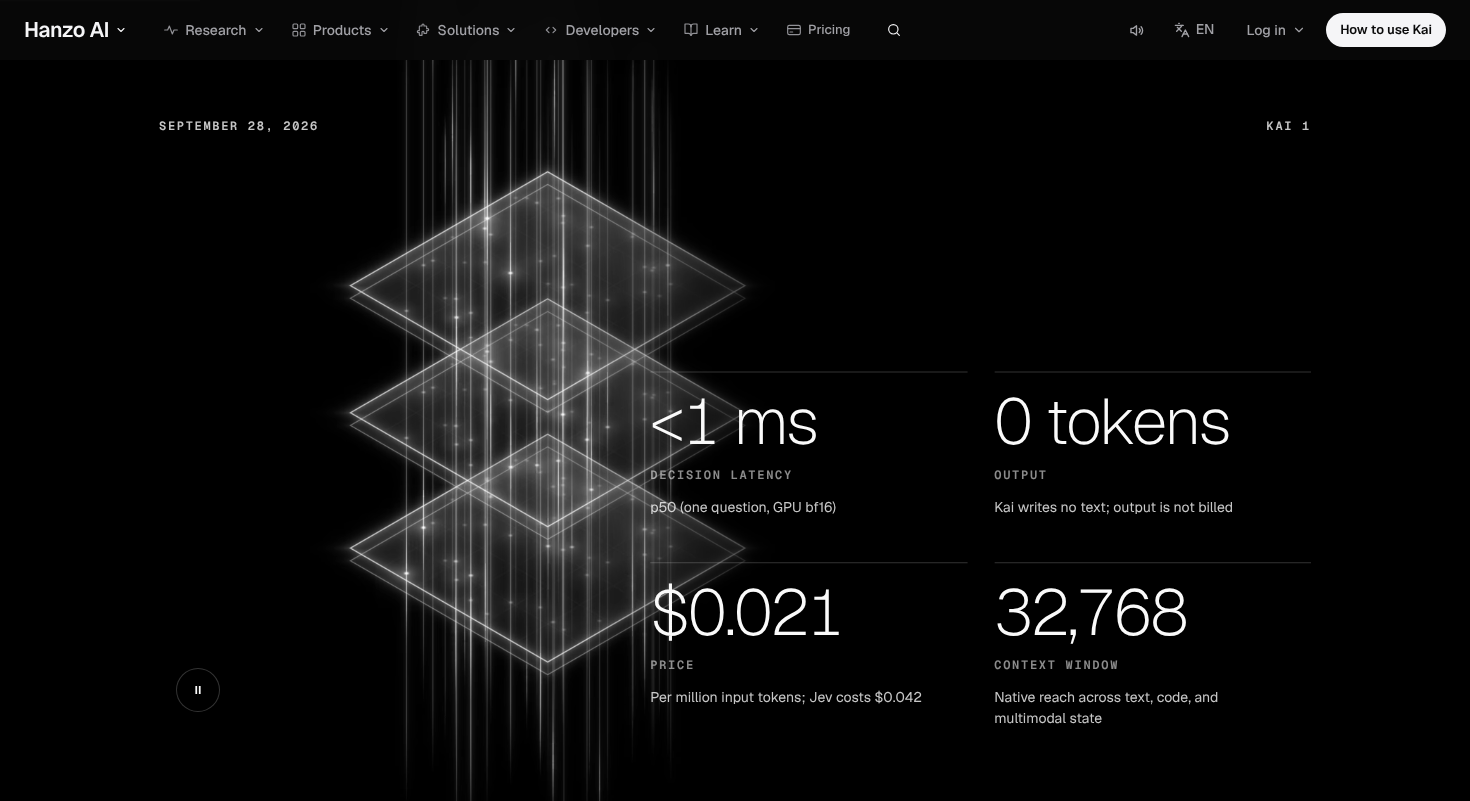
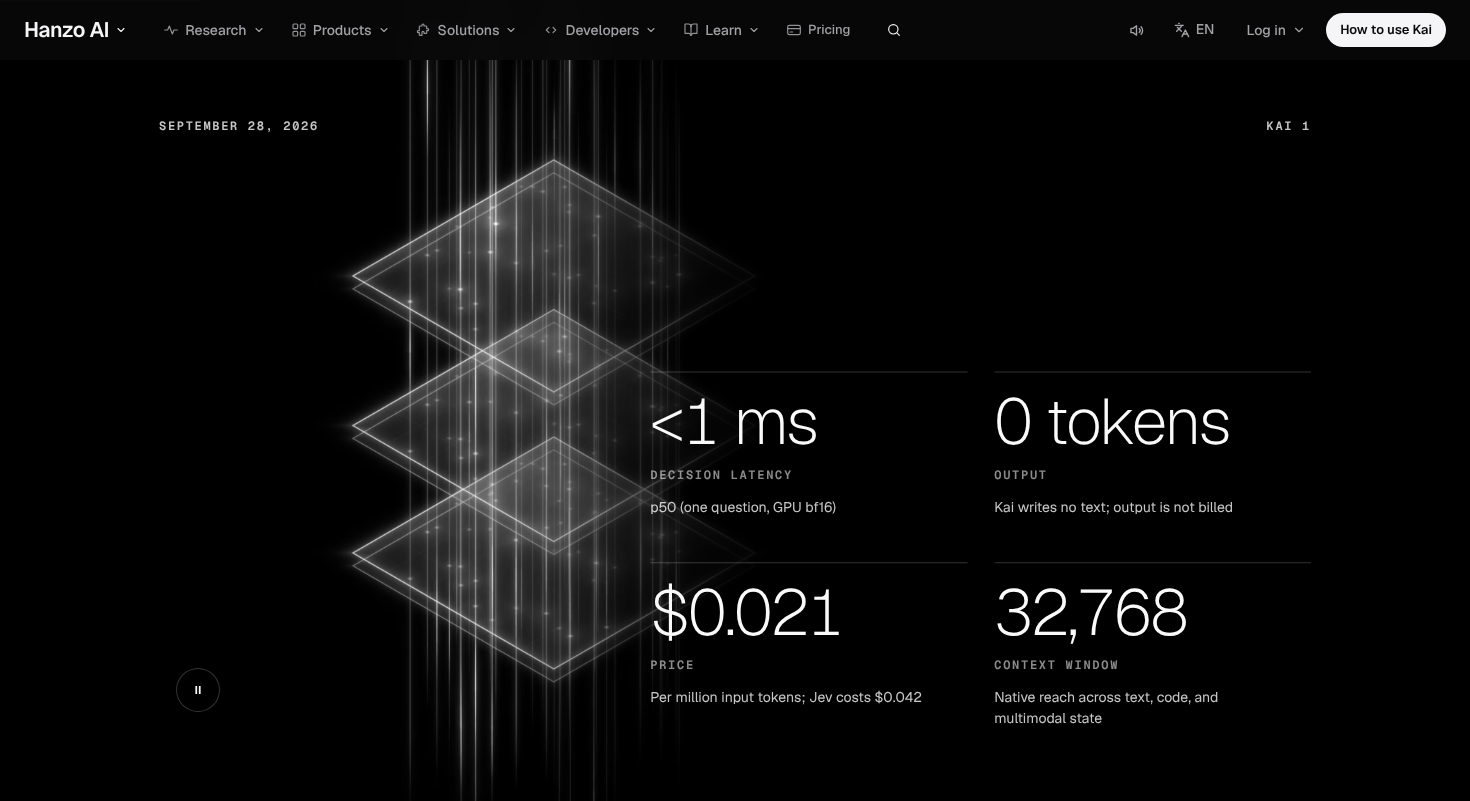
fix(blog-family): Life cells fit their tracks, page-local band with line-mask cut-in, gradient under Kai's figures, Life gists for synthesis 02/03, reduced-motion hero art, sources caption, card hover peek
Claude-Session: https://claude.ai/code/session_01T1hoMuz3Pa3LFEtY3bJiXi

Changed region(s): [[0.2143, 0.0624, 0.5204, 0.9988], [0.4898, 0.4994, 0.5204, 0.5306], [0.4898, 0.3433, 0.5204, 0.3745]]

diff --git a/components/pages/post/Post.jsx b/components/pages/post/Post.jsx
@@ -9,7 +9,7 @@
    Signature: the reading thread. A margin rail holds the chapter you are in as a numeral that hands over to the next,
    and a spine that fills as you read, each chapter a knot (on a phone, a reading bar that opens the contents).
    Beyond: minutes left. The post's own stated read time counts down as you read, and any chapter is one press away.
-   V2: 8/10 round 3: one ask everywhere (header outlined from first paint while the post's own ask shows; on phones the ask rides in the chapter bar and the shared rising bar never floats over text); "Back to Blog / <chip>" breadcrumb under the h1; each post's data sets its rhythm (a figures post mirrors the scene, counts its figures with the scroll and keeps its rail on the right); synthesis parts lead with one large film and list the rest. Round 2: CSS title cut-in, poster drift, chapter gists, counter on every scroll */
+   V2: 8/10 round 4: Life cells sized to their tracks (a real grid); closing band drawn page-locally with a line-mask cut-in (no blur); gradient under Kai's figures; synthesis chapters 02/03 get the board's own collision and the glider emblem; reduced motion shows the hero art beside the title; Frontier sources on one caption line; next-post hover raises the tag and read time. Round 3: one ask everywhere (header outlined from first paint while the post's own ask shows; on phones the ask rides in the chapter bar and the shared rising bar never floats over text); "Back to Blog / <chip>" breadcrumb under the h1; each post's data sets its rhythm (a figures post mirrors the scene, counts its figures with the scroll and keeps its rail on the right); synthesis parts lead with one large film and list the rest. Round 2: CSS title cut-in, poster drift, chapter gists, counter on every scroll */
 // Persona: a developer or founder reading Hanzo's thinking (arrives from /blog, search or a shared link)
 // Goal: finish the post, understand its one idea, take the post's own next step
 // CTA: the post's first closing link as the one solid ask (hero, data-thumb, data-cta "blog-post.hero"), repeated in the closing Band
@@ -18,8 +18,8 @@
 // Beyond: minutes left: the post's own read time counting down as you read, with a jump to any chapter
 import { Fragment, useEffect, useRef, useState } from 'react';
 import { motion, AnimatePresence, useMotionValueEvent, useScroll, useTransform } from 'motion/react';
-import { EASE } from '../../ui';
-import { A, Band, Cta, CodeBlock, Film as KitFilm, Img, Tabs, TabPanel } from '../../kit';
+import { EASE, Magnetic } from '../../ui';
+import { A, Cta, CodeBlock, Film as KitFilm, Img, Tabs, TabPanel } from '../../kit';
 import Sigil from '../../Sigil';
 import Gist, { gist } from './Gist';
 import Life from './Life';
@@ -234,6 +234,7 @@ function Stage({ doc, nums, ask, alt }) {
               {ask && <div className="xbg-ask"><Cta to={ask.href} id="blog-post.hero" thumb>{ask.label}</Cta></div>}
             </div>
             <i className="xbg-slot" ref={slot} aria-hidden="true" />
+            <span className="xbg-rest" aria-hidden="true">{doc.film ? <Img src={film(doc.film, 'webp')} alt="" w={1200} h={1500} /> : <Sigil seed={doc.route} data={nums} className="xbg-sigil" />}</span>
           </div>
         </motion.div>
       </div>
@@ -317,7 +318,46 @@ function Thread({ doc, chapters, body, ask }) {
 
 const Chevron = () => <svg viewBox="0 0 16 16" width="14" height="14" aria-hidden="true"><path d="M3 8h9M8.5 4.5 12 8l-3.5 3.5" fill="none" stroke="currentColor" strokeWidth="1.6" strokeLinecap="round" strokeLinejoin="round" /></svg>;
 
-/* the close: the sources, the other posts as cards that open into their page, then the Band with the post's own ask */
+/* The closing band, page-local: the kit Band reveals its headline word by word with opacity and blur (against MASTER
+   part 9), so this draws the same .x-band (same look, same words) with the headline cut in by line mask when it
+   arrives, the post's own ask as a kit Cta (magnetic, as the Band's was) and the other closing links beside it.
+   Request to the kit owner: docs/requests/blog-family.md. */
+function Close({ cta }) {
+  const ref = useRef(null);
+  useEffect(() => {
+    const el = ref.current;
+    if (!el) return;
+    const io = new IntersectionObserver(([e]) => { if (e.isIntersecting) { el.dataset.in = 'true'; io.disconnect(); } }, { threshold: 0.35 });
+    io.observe(el);
+    return () => io.disconnect();
+  }, []);
+  const words = cta.label.split(' ');
+  return (
+    <section className="x-band xbg-band" data-room="dark" ref={ref}>
+      <div className="x-wrap">
+        <h2 className="xbg-band-h">
+          <span className="x-sr">{cta.label}</span>
+          {words.map((w, i) => (
+            <Fragment key={i}>
+              <span className="xbg-bm" aria-hidden="true"><span className="xbg-bi" style={{ '--i': i }}>{w}</span></span>
+              {i < words.length - 1 ? ' ' : ''}
+            </Fragment>
+          ))}
+        </h2>
+        <div className="x-band-act">
+          <Magnetic><Cta to={cta.links[0].href} id="blog-post.close-1" size="lg">{cta.links[0].label}</Cta></Magnetic>
+          {cta.links.length > 1 && (
+            <span className="xbg-band-more">
+              {cta.links.slice(1).map((l, i) => <A key={l.href} to={l.href} className="x-arrow" data-cta={'blog-post.close-' + (i + 2)}><span>{l.label}</span><Chevron /></A>)}
+            </span>
+          )}
+        </div>
+      </div>
+    </section>
+  );
+}
+
+/* the close: the sources, the other posts as cards that open into their page, then the band with the post's own ask */
 function End({ doc, cta, sources }) {
   return (
     <>
@@ -334,7 +374,10 @@ function End({ doc, cta, sources }) {
               {doc.next.map((n, i) => (
                 <li key={n.href} className={i === 0 ? 'big' : ''}>
                   <A to={n.href} className="xbg-card" data-cta={'blog-post.next-' + (i + 1)}>
-                    <span className="xbg-card-art">{n.film ? <Img src={film(n.film, 'webp')} alt="" w={1200} h={1500} /> : <Sigil seed={n.href} data={[parseInt(n.read, 10) || 0, n.title.length]} className="xbg-sigil" />}</span>
+                    <span className="xbg-card-art">
+                      {n.film ? <Img src={film(n.film, 'webp')} alt="" w={1200} h={1500} /> : <Sigil seed={n.href} data={[parseInt(n.read, 10) || 0, n.title.length]} className="xbg-sigil" />}
+                      <span className="xbg-card-peek x-mono" aria-hidden="true"><span>{n.chip}</span><span>{n.read}</span></span>
+                    </span>
                     <span className="xbg-card-t" data-morph>{n.title}</span>
                     <span className="xbg-card-k x-mono"><span>{n.chip}</span><span>{n.date}</span><span className="xbg-card-r">{n.read}</span></span>
                   </A>
@@ -344,14 +387,7 @@ function End({ doc, cta, sources }) {
           )}
         </div>
       </section>
-      {cta && (
-        <Band title={cta.label} action={cta.links[0].label} to={cta.links[0].href}
-          note={cta.links.length > 1 ? (
-            <span className="xbg-band-more">
-              {cta.links.slice(1).map((l, i) => <A key={l.href} to={l.href} className="x-arrow" data-cta={'blog-post.close-' + (i + 2)}><span>{l.label}</span><Chevron /></A>)}
-            </span>
-          ) : null} />
-      )}
+      {cta && <Close cta={cta} />}
     </>
   );
 }
@@ -368,6 +404,12 @@ export default function Post({ doc }) {
     else if (chapters.length) chapters[chapters.length - 1].blocks.push({ b, i });
   });
   chapters.forEach((c) => { c.gist = gist(c.blocks); });
+  // a post that holds the Game of Life gives its other text-only chapters the board's own moves: the collision, then
+  // the glider alone as the emblem (after the chapter's first paragraph)
+  if (doc.body.some((b) => b.k === 'figure' && b.kind === 'life')) {
+    const kinds = ['collide', 'emblem'];
+    chapters.forEach((c) => { if (!c.gist && c.blocks.length && c.blocks.every(({ b }) => b.k === 'p') && kinds.length) c.gist = { kind: kinds.shift(), after: 0 }; });
+  }
   const nums = [doc.minutes, doc.title.length];
   const ask = cta && cta.links[0];
   // each post's own data sets its rhythm: a post whose plate holds figures (Kai) mirrors the scene (film card on the

diff --git a/components/pages/post/Post.css b/components/pages/post/Post.css
@@ -81,6 +81,8 @@ html:has(main.xbg):not([data-xbg-solid]) header[data-slot=masthead] a[data-x-ask
   .js .alt .xbg-plate-film { right: auto; left: 0; object-position: 40% 45%; -webkit-mask-image: linear-gradient(270deg, transparent 0, #000 30%); mask-image: linear-gradient(270deg, transparent 0, #000 30%); }
   .js .alt .xbg-plate-f { align-self: flex-end; transform-origin: 100% 100%; }
   .js .alt .xbg-plate-k { flex-direction: row-reverse; }
+  /* the figures settle on the film's right: a gradient under that column only (dimming as a gradient under text) */
+  .js .alt .xbg-stage.film .xbg-plate-c::before { content: ''; position: absolute; z-index: -1; top: 0; bottom: 0; left: calc(50% - 50vw); right: calc(50% - 50vw); background: linear-gradient(90deg, rgba(0, 0, 0, 0) 34%, rgba(0, 0, 0, .8) 50%, rgba(0, 0, 0, .9) 100%); pointer-events: none; }
 }
 /* a figures post keeps its reading rail on the right of the column */
 @media (min-width: 1200px) {
@@ -163,6 +165,14 @@ html:not(.js) .xbg-gist-track i { transform: none; }
 .xbg-gist.steps li .xbg-gist-dot { animation: xbg-dot calc(var(--n) * 1.6s) linear infinite; animation-delay: inherit; animation-play-state: inherit; }
 @keyframes xbg-dot { 0%, 30% { background: var(--ink2); transform: scale(1.15); } 36%, 100% { background: var(--room-bg); transform: scale(1); } }
 
+/* the Life gists: the collision on a small board, the glider alone as the emblem */
+.xbg-gist.life { display: flex; }
+.xbg-gist-board { display: grid; gap: 2px; padding: 10.5px; border-radius: 20px; background: var(--room-surface); width: 100%; max-width: 520px; }
+.xbg-gist.emblem .xbg-gist-board { max-width: 188px; gap: 6.5px; padding: 17px; border-radius: 16px; }
+.xbg-gist-board i { aspect-ratio: 1; border-radius: 2px; background: var(--hz-100); transition: background-color 180ms cubic-bezier(0, 0, .2, 1), transform 180ms cubic-bezier(.4, 0, .2, 1); }
+.xbg-gist.emblem .xbg-gist-board i { border-radius: 50%; }
+.xbg-gist-board i[data-on='1'] { background: var(--ink2); transform: scale(.92); }
+
 /* code: kit CodeBlock (and kit Tabs above it) */
 .xbg-code { margin: 44px 0; display: flex; flex-direction: column; gap: 10.5px; align-items: flex-start; }
 .xbg-code > *, .xbg-code [role='tabpanel'] { width: 100%; }
@@ -171,7 +181,7 @@ html:not(.js) .xbg-gist-track i { transform: none; }
 /* Game of Life */
 .xbg-life { margin: 0; display: grid; grid-template-columns: minmax(0, 360px) minmax(0, 1fr); gap: 17px 44px; align-items: start; }
 .xbg-board { display: grid; gap: 2px; padding: 10.5px; border-radius: 24px; background: var(--room-surface); touch-action: none; }
-.xbg-board button { aspect-ratio: 1; padding: 0; border: 0; border-radius: 3px; background: var(--hz-100); cursor: crosshair; transition: background-color 150ms cubic-bezier(0, 0, .2, 1), transform 150ms cubic-bezier(.4, 0, .2, 1); }
+.xbg-board button { aspect-ratio: 1; width: 100%; min-width: 0; min-height: 0; height: auto; padding: 0; border: 0; border-radius: 3px; background: var(--hz-100); cursor: crosshair; transition: background-color 150ms cubic-bezier(0, 0, .2, 1), transform 150ms cubic-bezier(.4, 0, .2, 1); }
 @media (hover: hover) { .xbg-board button:hover { background: var(--hz-200); } }
 .xbg-board button[data-on='1'] { background: var(--ink2); transform: scale(.94); }
 .xbg-board button:focus-visible { outline: 2px solid var(--ink2); outline-offset: 1px; position: relative; z-index: 1; }
@@ -227,10 +237,39 @@ html:not(.js) .xbg-gist-track i { transform: none; }
 .xbg-card-art img { position: absolute; inset: 0; width: 100%; height: 100%; object-fit: cover; object-position: 75% 45%; transition: transform 500ms cubic-bezier(.4, 0, .2, 1); }
 .xbg-card-art .xbg-sigil { position: absolute; inset: 0; width: 100%; height: 100%; transition: transform 500ms cubic-bezier(.4, 0, .2, 1); }
 @media (hover: hover) { .xbg-card:hover .xbg-card-art img, .xbg-card:hover .xbg-card-art .xbg-sigil { transform: scale(1.04); } }
+/* hover tells something: the post's tag and read time rise into the picture's foot */
+.xbg-card-peek { position: absolute; left: 17px; bottom: 17px; z-index: 1; display: flex; gap: 10.5px; padding: 6.5px 10.5px; border-radius: 6px; background: rgba(0, 0, 0, .72); color: #fafafa; font-size: 12px; font-weight: 606; letter-spacing: .14em; text-transform: uppercase; transform: translateY(calc(100% + 17px)); transition: transform 300ms cubic-bezier(.16, 1, .3, 1); }
+@media (hover: hover) { .xbg-card:hover .xbg-card-peek, .xbg-card:focus-visible .xbg-card-peek { transform: none; } }
+
+/* the closing band: Hanzo's words cut in by line mask when they arrive (no blur), then the ask */
+.xbg-band-h { text-wrap: balance; }
+.xbg-band-h .xbg-bm { display: inline-block; overflow: hidden; padding: .04em 0 .12em; margin: -.04em 0 -.12em; vertical-align: top; }
+.xbg-band-h .xbg-bi { display: inline-block; }
+.js .xbg-band:not([data-in='true']) .xbg-bi { transform: translateY(105%); }
+.js .xbg-band[data-in='true'] .xbg-bi { animation: xbg-rise 800ms cubic-bezier(.16, 1, .3, 1) both; animation-delay: calc(var(--i, 0) * 55ms); }
+.xbg-band .x-band-act { transition: transform 600ms cubic-bezier(.16, 1, .3, 1) 300ms; }
+.js .xbg-band:not([data-in='true']) .x-band-act { transform: translateY(17px); }
+@media (prefers-reduced-motion: reduce) { .js .xbg-band .xbg-bi, .js .xbg-band .x-band-act { transform: none !important; animation: none !important; } }
+
+/* the Frontier's sources: one caption line under the chart, out of the chip row */
+.xbg-srcs { margin: 17px 0 0; font-size: 13px; line-height: 1.6; color: var(--mute); }
+.xbg-srcs > span + span::before { content: ' · '; }
+
+/* the hero art at rest beside the title when the scene does not pin (reduced motion, no JavaScript) */
+.xbg-rest { display: none; }
+@media (min-width: 900px) and (prefers-reduced-motion: reduce) {
+  .xbg-cover-g { display: grid; grid-template-columns: minmax(0, 5fr) minmax(0, 8fr); column-gap: 27px; align-items: center; }
+  .alt .xbg-cover-t { order: 2; }
+  .xbg-rest { display: block; position: relative; aspect-ratio: 4 / 3; border-radius: 24px; overflow: hidden; background: #000; color: rgba(255, 255, 255, .6); }
+}
+@media (min-width: 900px) {
+  html:not(.js) .xbg-cover-g { display: grid; grid-template-columns: minmax(0, 5fr) minmax(0, 8fr); column-gap: 27px; align-items: center; }
+  html:not(.js) .xbg-rest { display: block; position: relative; aspect-ratio: 4 / 3; border-radius: 24px; overflow: hidden; background: #000; color: rgba(255, 255, 255, .6); }
+}
+.xbg-rest img, .xbg-rest .xbg-sigil { position: absolute; inset: 0; width: 100%; height: 100%; object-fit: cover; }
 .xbg-card-t { font-size: 21px; font-weight: 497; line-height: 1.25; letter-spacing: -.01em; max-width: 26ch; text-wrap: balance; }
 .xbg-card-k { display: flex; flex-wrap: wrap; gap: 6.5px 17px; color: var(--mute); }
 .xbg-card-r { color: var(--ink2); }
-.xbg .x-band h2 { text-wrap: balance; }
 .xbg-band-more { display: flex; flex-wrap: wrap; justify-content: center; gap: 10.5px 27px; }
 .xbg-band-more .x-arrow { color: #fafafa; }
 

diff --git a/components/pages/post/Gist.jsx b/components/pages/post/Gist.jsx
@@ -54,7 +54,86 @@ export function gist(blocks) {
   return null;
 }
 
+/* Life objects for a post that already holds the Game of Life (its own board and rules, no new words):
+   'collide' runs two gliders into each other on a small board with dead edges, so the debris settles, then starts again;
+   'emblem' is the glider alone in its 3×3 box (the hacker emblem), turning through its four phases. */
+const GL = [[1, 0], [2, 1], [0, 2], [1, 2], [2, 2]];
+function sim(w, h, wrap) {
+  return (g) => {
+    const n = new Uint8Array(w * h);
+    for (let y = 0; y < h; y++) for (let x = 0; x < w; x++) {
+      let c = 0;
+      for (let dy = -1; dy <= 1; dy++) for (let dx = -1; dx <= 1; dx++) {
+        if (!dx && !dy) continue;
+        let X = x + dx, Y = y + dy;
+        if (wrap) { X = (X + w) % w; Y = (Y + h) % h; } else if (X < 0 || Y < 0 || X >= w || Y >= h) continue;
+        c += g[Y * w + X];
+      }
+      n[y * w + x] = c === 3 || (c === 2 && g[y * w + x]) ? 1 : 0;
+    }
+    return n;
+  };
+}
+const SHOWS = {
+  collide: () => {
+    const w = 22, h = 14, g = new Uint8Array(w * h);
+    GL.forEach(([x, y]) => { g[(y + 1) * w + x + 1] = 1; g[(y + 1) * w + (w - 2 - x)] = 1; }); // one heading right, its mirror heading left
+    return { w, h, start: g, next: sim(w, h, false), turns: 72, ms: 200 };
+  },
+  emblem: () => {
+    const w = 8, h = 8, g = new Uint8Array(w * h);
+    GL.forEach(([x, y]) => { g[(y + 2) * w + x + 2] = 1; });
+    return { w, h, start: g, next: sim(w, h, true), turns: 0, ms: 700, crop: 3 };
+  },
+};
+// the live cells' 3×3 box, so the emblem stays put while the glider turns
+function crop(g, w, h, k) {
+  let x0 = w, y0 = h;
+  for (let y = 0; y < h; y++) for (let x = 0; x < w; x++) if (g[y * w + x]) { x0 = Math.min(x0, x); y0 = Math.min(y0, y); }
+  const out = new Uint8Array(k * k);
+  for (let y = 0; y < k; y++) for (let x = 0; x < k; x++) out[y * k + x] = g[((y0 + y) % h) * w + ((x0 + x) % w)];
+  return out;
+}
+function LifeShow({ kind }) {
+  const ref = useRef(null), cells = useRef([]);
+  const s = useRef(null);
+  if (!s.current) s.current = SHOWS[kind]();
+  const { w, h, crop: k } = s.current;
+  const cols = k || w, rows = k || h;
+  useEffect(() => {
+    const el = ref.current, S = s.current;
+    let g = S.start, n = 0, raf = 0, last = 0, on = false;
+    const paint = () => { const v = S.crop ? crop(g, S.w, S.h, S.crop) : g; cells.current.forEach((c, i) => { if (c) c.dataset.on = v[i] ? '1' : ''; }); };
+    paint();
+    const calm = matchMedia('(prefers-reduced-motion: reduce)').matches;
+    const loop = (t) => {
+      if (t - last >= S.ms) { last = t; n += 1; if (S.turns && n > S.turns) { g = S.start; n = 0; } else g = S.next(g); paint(); }
+      raf = requestAnimationFrame(loop);
+    };
+    const io = new IntersectionObserver(([e]) => {
+      el.dataset.on = String(e.isIntersecting);
+      if (e.isIntersecting && !on && !calm) { on = true; raf = requestAnimationFrame(loop); }
+      else if (!e.isIntersecting && on) { on = false; cancelAnimationFrame(raf); }
+    }, { threshold: 0.2 });
+    io.observe(el);
+    return () => { io.disconnect(); cancelAnimationFrame(raf); };
+  }, []);
+  const v = k ? crop(s.current.start, w, h, k) : s.current.start;
+  return (
+    <div className={'xbg-gist life ' + kind} ref={ref} aria-hidden="true">
+      <div className="xbg-gist-board" style={{ gridTemplateColumns: `repeat(${cols}, minmax(0, 1fr))` }}>
+        {Array.from({ length: cols * rows }, (_, i) => <i key={i} ref={(el) => { cells.current[i] = el; }} data-on={v[i] ? '1' : ''} />)}
+      </div>
+    </div>
+  );
+}
+
 export default function Gist({ g }) {
+  if (g.kind === 'collide' || g.kind === 'emblem') return <LifeShow kind={g.kind} />;
+  return <GistDrawn g={g} />;
+}
+
+function GistDrawn({ g }) {
   const ref = useRef(null);
   useEffect(() => {
     const el = ref.current;

diff --git a/components/pages/post/Frontier.jsx b/components/pages/post/Frontier.jsx
@@ -69,11 +69,14 @@ export default function Frontier({ f }) {
           return (
             <li key={i}>
               <button type="button" aria-pressed={i === at} onClick={() => pick(i)} className={p.kind}>{p.short}</button>
-              {p.href && <A to={p.href} className="xbg-a xbg-chip-src">Source</A>}
             </li>
           );
         })}
       </ul>
+      {/* the reported scores' sources: one caption line under the chart, out of the chip row */}
+      <p className="xbg-srcs">
+        {order.filter((i) => f.dots[i].href).map((i) => <span key={i}>{f.dots[i].short} <A to={f.dots[i].href} className="xbg-a">Source</A></span>)}
+      </p>
     </figure>
   );
 }

diff --git a/docs/coverage/blog-family.md b/docs/coverage/blog-family.md
@@ -31,7 +31,7 @@ Done here: breadcrumb `nav[aria-label=Breadcrumb]` "Back to Blog / <post chip>" 
 - [x] Ends in proof (sources, other posts), `Band`, footer
 - [x] Card-to-page links use Morph; the card title carries `data-morph`, the h1 is `data-morph-target`
 
-Done here: screen one is the 52px title cut in by word mask (700 ms, 55 ms apart, a CSS animation from first paint, so it does not wait for hydration; the film's poster drifts from first paint too), the post's ask, and its film (Kai, Enso) or Sigil playing in a card from the first second (critic 6/10 fix: "the picture only starts when I scroll"). The scene pins and the card opens to full bleed, then chapters, sources, next posts, `Band`. At 1470x801 the film card's top sits at 176px, playing (currentTime 2.1s to 4.2s over 2s, measured on both members); the Sigil post moves too. Nothing sits above the h1 (the breadcrumb is under it); on phones the h1 starts 68px under the header and about 280px of film is in the first screen. Mid-page stays one-in-one-out: every chapter that is only paragraphs gets one object drawn from its own words (`Gist.jsx`): Pareto 01 and Kai 01 a step track whose light walks through the chapter's own three steps, Pareto 03 count-up tiles "0.27 / ms p50" and "$0.021 / per million tokens", Kai 03 "Limits" 1,024 against 32,768 as bars at their true ratio. JS off: the cut-in plays as plain CSS, so the title always lands.
+Done here: screen one is the 52px title cut in by word mask (700 ms, 55 ms apart, a CSS animation from first paint, so it does not wait for hydration; the film's poster drifts from first paint too), the post's ask, and its film (Kai, Enso) or Sigil playing in a card from the first second (critic 6/10 fix: "the picture only starts when I scroll"). The scene pins and the card opens to full bleed, then chapters, sources, next posts, `Band`. At 1470x801 the film card's top sits at 176px, playing (currentTime 2.1s to 4.2s over 2s, measured on both members); the Sigil post moves too. Nothing sits above the h1 (the breadcrumb is under it); on phones the h1 starts 68px under the header and about 280px of film is in the first screen. Reduced motion and JS off on desktop show the post's art at rest beside the title (film still or Sigil), so the first screen is never half empty. Mid-page stays one-in-one-out: on synthesis the two text chapters take the post's own Life board moves (two gliders colliding and settling into blinkers; the glider alone in its 3×3 emblem box, turning); every chapter that is only paragraphs gets one object drawn from its own words (`Gist.jsx`): Pareto 01 and Kai 01 a step track whose light walks through the chapter's own three steps, Pareto 03 count-up tiles "0.27 / ms p50" and "$0.021 / per million tokens", Kai 03 "Limits" 1,024 against 32,768 as bars at their true ratio. JS off: the cut-in plays as plain CSS, so the title always lands.
 
 ## 4. Conversion system
 - [x] `<Cta>` only; no raw `.x-btn`
@@ -73,7 +73,7 @@ Done here: neighbours differ by their own data: a post whose plate holds figures
 - [x] n/a: no inputs; no bare `:hover`
 - [x] Forks this page deleted: listed above
 
-Done here: the back link drops 1px on press, next-post cards press to .98 and underline their title on hover; rail knots, reading bar, chips, Life controls (kit `Cta`), next cards and the pause button all scale on press; hover changes position or fill, never only opacity.
+Done here: the back link drops 1px on press, next-post cards press to .98, and on hover underline their title and raise the post's tag and read time into the picture's foot; the Life board's cells fit their tracks (min-height/min-width 0, 2px gaps visible at 1470 and 375); the Frontier's "Source" links sit on one caption line under the chips; rail knots, reading bar, chips, Life controls (kit `Cta`), next cards and the pause button all scale on press; hover changes position or fill, never only opacity.
 
 ## 9. Motion and interaction
 - [x] One signature (the reading thread), 3 supporting (pinned card-to-full-bleed scene, title cut-in, Sigil/film idle); 0 fade-ups
@@ -82,7 +82,7 @@ Done here: the back link drops 1px on press, next-post cards press to .98 and un
 - [x] Reduced motion shows the final state (stacked layout, no pin); no `setInterval` (Life and the GPQA walk run on rAF clocks)
 - [x] n/a: sound belongs to the shared kit
 
-Done here: `variety.py` OK (sigil, scroll scrub, clip reveal); the chapter numeral is read on every scroll (heading above 60% of the screen; the last chapter once finished), so it never lags at "02 / 03 · Finished"; the closing Band headline is balanced (no one-word last line at 1470); no springs (the spine follows scroll directly; tab pill is the kit's); figures arrive at 84px and settle to 64px as the plate opens.
+Done here: `variety.py` OK (sigil, scroll scrub, clip reveal); the chapter numeral is read on every scroll (heading above 60% of the screen; the last chapter once finished), so it never lags at "02 / 03 · Finished"; the closing band is page-local (`Close`: the kit Band's look and words, but the headline cuts in by line mask with no blur, the ask a magnetic kit `Cta`; request in `docs/requests/blog-family.md`), its headline balanced; Kai's plate figures sit on a gradient under their column; no springs (the spine follows scroll directly; tab pill is the kit's); figures arrive at 84px and settle to 64px as the plate opens.
 
 ## 10. Media
 - [x] `Film` and `Img` from the kit only; sizes and posters set (1200×1500)

diff --git a/docs/requests/blog-family.md b/docs/requests/blog-family.md
@@ -1,4 +1,5 @@
 # Request from /blog/* (blog-family)
 
 1. **Intermittent hydration mismatch in `FooterHTML` (shared chrome).** On some loads (5 of 10 in a run that screenshots 200 ms after the h1 appears, 7 Nov 16:25) React logs "A tree hydrated but some attributes of the server rendered HTML didn't match": the diff is `FooterHTML`'s `dangerouslySetInnerHTML.__html` (`<footer class="is_View _paddingInline-_platformweb_page-gutter …"`), server and client strings differ. Seen on every /blog post and with reduced motion; not from the post template. It shows Next's red "1 Issue" badge. Owner: shared shell.
-2. **Phone one-solid rule is page-local twice now** (/bounty and /blog/* both set `html[data-ask=quiet]` while their own solid ask is on screen). Worth moving into the shell so every page with `data-thumb` gets it.
+2. **Phone one-solid rule is page-local on several pages now** (/bounty, /affiliate, /blog/*). Worth moving into the shell so every page with `data-thumb` gets it.
+3. **Kit `Band` headline reveal (7 Nov, round 4).** `Band` titles with `<Words>` from `components/ui.jsx`, which reveals word by word with opacity and `blur(12px)`; MASTER part 9 bans the blur fade, and a critic flagged it on this page. There is no prop to switch it. /blog/* now draws its own closing band page-locally (`Close` in `components/pages/post/Post.jsx`: the same `.x-band` look and words, the headline cut in by line mask, the ask a kit `Cta`). Ask: give `Band` (or `Words`) a line-mask mode, or make it the default, so pages can go back to the kit part.
